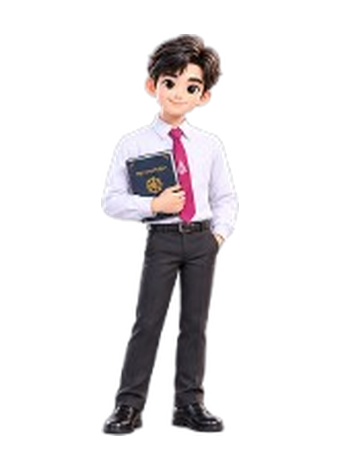
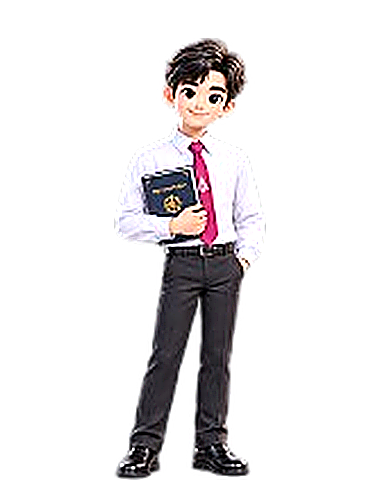
feat: make mascot animation fully automatic continuous playback and enhance image clarity with unsharp masking

Changed region(s): [[0.2941, 0.0609, 0.7059, 0.9739], [0.5882, 0.6391, 0.6176, 0.7609]]

diff --git a/src/app/portal/_components/assist-hero.tsx b/src/app/portal/_components/assist-hero.tsx
@@ -9,10 +9,7 @@ import {
   FileText,
   Sparkles,
   Play,
-  Pause,
   GraduationCap,
-  ChevronLeft,
-  ChevronRight,
 } from "lucide-react";
 
 interface AssistHeroProps {
@@ -21,56 +18,45 @@ interface AssistHeroProps {
 }
 
 const MASCOT_POSES = [
-  { id: 1, titleTh: "ยินดีต้อนรับสู่ระบบ", titleEn: "Welcome to Campus", tag: "Student" },
-  { id: 2, titleTh: "พร้อมเริ่มต้นเรียนรู้ ✌", titleEn: "Ready to Learn ✌", tag: "Energy" },
-  { id: 3, titleTh: "มั่นใจ ปลอดภัย 100%", titleEn: "Confident & Secure", tag: "Trusted" },
-  { id: 4, titleTh: "ค้นคว้าความรู้ 📖", titleEn: "Explore Knowledge 📖", tag: "Academic" },
-  { id: 5, titleTh: "สวัสดีครับ 👋", titleEn: "Hello & Greetings 👋", tag: "Friendly" },
-  { id: 6, titleTh: "แนะนำบริการดิจิทัล 👉", titleEn: "Discover Services 👉", tag: "Guide" },
-  { id: 7, titleTh: "ระบบยอดเยี่ยม 👍", titleEn: "Top Quality 👍", tag: "Quality" },
-  { id: 8, titleTh: "ให้คำปรึกษาตลอด 24 ชม. 🤔", titleEn: "Smart Guidance 🤔", tag: "Advising" },
-  { id: 9, titleTh: "นวัตกรรมดิจิทัล 💻", titleEn: "Digital Learning 💻", tag: "Tech" },
-  { id: 10, titleTh: "สำเร็จไปด้วยกัน 💪", titleEn: "Success Together 💪", tag: "Goal" },
-  { id: 11, titleTh: "มุ่งมั่นสู่อนาคต 🎒", titleEn: "Future Ready 🎒", tag: "Vision" },
-  { id: 12, titleTh: "ก้าวไปข้างหน้า 🚶", titleEn: "Step Forward 🚶", tag: "Progress" },
-  { id: 13, titleTh: "สวัสดีครับ ยินดีต้อนรับ 🙏", titleEn: "Sawasdee - Thai Greeting 🙏", tag: "Respect" },
-  { id: 14, titleTh: "ยินดีต้อนรับทุกคนครับ 🤗", titleEn: "Open Welcome to All 🤗", tag: "Community" },
+  { id: 1, titleTh: "ยินดีต้อนรับสู่ระบบ", titleEn: "Welcome to Campus" },
+  { id: 2, titleTh: "พร้อมเริ่มต้นเรียนรู้ ✌", titleEn: "Ready to Learn ✌" },
+  { id: 3, titleTh: "มั่นใจ ปลอดภัย 100%", titleEn: "Confident & Secure" },
+  { id: 4, titleTh: "ค้นคว้าความรู้ 📖", titleEn: "Explore Knowledge 📖" },
+  { id: 5, titleTh: "สวัสดีครับ 👋", titleEn: "Hello & Greetings 👋" },
+  { id: 6, titleTh: "แนะนำบริการดิจิทัล 👉", titleEn: "Discover Services 👉" },
+  { id: 7, titleTh: "ระบบยอดเยี่ยม 👍", titleEn: "Top Quality 👍" },
+  { id: 8, titleTh: "ให้คำปรึกษาตลอด 24 ชม. 🤔", titleEn: "Smart Guidance 🤔" },
+  { id: 9, titleTh: "นวัตกรรมดิจิทัล 💻", titleEn: "Digital Learning 💻" },
+  { id: 10, titleTh: "สำเร็จไปด้วยกัน 💪", titleEn: "Success Together 💪" },
+  { id: 11, titleTh: "มุ่งมั่นสู่อนาคต 🎒", titleEn: "Future Ready 🎒" },
+  { id: 12, titleTh: "ก้าวไปข้างหน้า 🚶", titleEn: "Step Forward 🚶" },
+  { id: 13, titleTh: "สวัสดีครับ ยินดีต้อนรับ 🙏", titleEn: "Sawasdee - Thai Greeting 🙏" },
+  { id: 14, titleTh: "ยินดีต้อนรับทุกคนครับ 🤗", titleEn: "Open Welcome to All 🤗" },
 ];
 
 export function AssistHero({ orgName, locale }: AssistHeroProps) {
   const isTh = locale === "th";
   const [currentPoseIdx, setCurrentPoseIdx] = useState(0);
-  const [isPlaying, setIsPlaying] = useState(true);
-  const [isHovered, setIsHovered] = useState(false);
 
-  // Preload all 14 pose images on mount for zero-flicker transitions
+  // Preload all 14 sharp pose images on mount for instant zero-flicker transitions
   useEffect(() => {
     if (typeof window !== "undefined") {
       MASCOT_POSES.forEach((p) => {
         const img = new Image();
-        img.src = `/images/mascot/pose-${p.id}.png`;
+        img.src = `/images/mascot/pose-${p.id}.png?v=2`;
       });
     }
   }, []);
 
-  // Sequential animation cycle (switch pose every 2.4s)
+  // Continuous automatic animation cycle through all 14 poses sequentially
   useEffect(() => {
-    if (!isPlaying || isHovered) return;
     const timer = setInterval(() => {
       setCurrentPoseIdx((prev) => (prev + 1) % MASCOT_POSES.length);
-    }, 2400);
+    }, 2000);
     return () => clearInterval(timer);
-  }, [isPlaying, isHovered]);
+  }, []);
 
   const activePose = MASCOT_POSES[currentPoseIdx];
-
-  const handleNext = () => {
-    setCurrentPoseIdx((prev) => (prev + 1) % MASCOT_POSES.length);
-  };
-
-  const handlePrev = () => {
-    setCurrentPoseIdx((prev) => (prev - 1 + MASCOT_POSES.length) % MASCOT_POSES.length);
-  };
 
   return (
     <section className="relative overflow-hidden w-full px-4 sm:px-8 lg:px-16 pt-12 pb-16 lg:py-20 flex items-center">
@@ -192,12 +178,8 @@ export function AssistHero({ orgName, locale }: AssistHeroProps) {
           </div>
         </div>
 
-        {/* RIGHT COLUMN: 3D Animated Mascot Character (Cycling through all 14 poses) */}
-        <div
-          className="lg:col-span-7 relative flex items-center justify-center py-6 lg:py-0 select-none"
-          onMouseEnter={() => setIsHovered(true)}
-          onMouseLeave={() => setIsHovered(false)}
-        >
+        {/* RIGHT COLUMN: 3D Animated Mascot Character (Continuous Automatic 14-Pose Cycling) */}
+        <div className="lg:col-span-7 relative flex items-center justify-center py-6 lg:py-0 select-none">
           {/* Decorative Orbital Concentric Rings */}
           <div className="absolute inset-0 flex items-center justify-center pointer-events-none -z-10">
             <div
@@ -212,7 +194,7 @@ export function AssistHero({ orgName, locale }: AssistHeroProps) {
 
           {/* Centered Character Stage Box */}
           <div
-            className="relative w-full max-w-[460px] h-[520px] rounded-[32px] overflow-hidden border border-white/60 dark:border-border/60 backdrop-blur-xl flex flex-col items-center justify-between p-6 shadow-2xl transition-all duration-300 hover:shadow-primary/10"
+            className="relative w-full max-w-[460px] h-[530px] rounded-[32px] overflow-hidden border border-white/60 dark:border-border/60 backdrop-blur-xl flex flex-col items-center justify-between p-6 shadow-2xl transition-all duration-300"
             style={{
               background:
                 "radial-gradient(ellipse at 50% 30%, color-mix(in srgb, var(--brand-light, #38bdf8) 12%, var(--glass-strong)), color-mix(in srgb, var(--brand) 6%, var(--glass)))",
@@ -220,11 +202,10 @@ export function AssistHero({ orgName, locale }: AssistHeroProps) {
                 "0 25px 50px -12px color-mix(in srgb, var(--brand) 25%, transparent), inset 0 1px 2px rgba(255,255,255,0.8)",
             }}
           >
-            {/* Top Stage Header: Current Pose Bubble & Control Button */}
-            <div className="w-full flex items-center justify-between z-10">
-              {/* Dynamic Action Pill */}
+            {/* Top Stage Header: Current Pose Bubble (Clean without buttons) */}
+            <div className="w-full flex items-center justify-center z-10">
               <div
-                className="inline-flex items-center gap-2 px-3.5 py-1.5 rounded-full backdrop-blur-md border shadow-xs transition-all duration-300"
+                className="inline-flex items-center gap-2 px-4 py-1.5 rounded-full backdrop-blur-md border shadow-xs transition-all duration-300"
                 style={{
                   background: "color-mix(in srgb, var(--glass-strong) 85%, transparent)",
                   borderColor: "color-mix(in srgb, var(--brand) 30%, var(--glass-border))",
@@ -234,46 +215,17 @@ export function AssistHero({ orgName, locale }: AssistHeroProps) {
                 <span className="text-xs font-semibold text-foreground tracking-tight">
                   {isTh ? activePose.titleTh : activePose.titleEn}
                 </span>
-              </div>
-
-              {/* Controls: Prev, Play/Pause, Next */}
-              <div className="flex items-center gap-1 bg-background/60 backdrop-blur-md border border-border/50 rounded-full px-2 py-1 shadow-xs">
-                <button
-                  type="button"
-                  onClick={handlePrev}
-                  title="Previous Pose"
-                  className="w-6 h-6 rounded-full flex items-center justify-center text-muted-foreground hover:text-foreground hover:bg-muted/80 transition-colors"
-                >
-                  <ChevronLeft className="h-3.5 w-3.5" />
-                </button>
-                <button
-                  type="button"
-                  onClick={() => setIsPlaying(!isPlaying)}
-                  title={isPlaying ? "Pause Animation" : "Play Animation"}
-                  className="w-6 h-6 rounded-full flex items-center justify-center text-primary hover:bg-primary/10 transition-colors"
-                >
-                  {isPlaying ? <Pause className="h-3 w-3" /> : <Play className="h-3 w-3 fill-primary" />}
-                </button>
-                <button
-                  type="button"
-                  onClick={handleNext}
-                  title="Next Pose"
-                  className="w-6 h-6 rounded-full flex items-center justify-center text-muted-foreground hover:text-foreground hover:bg-muted/80 transition-colors"
-                >
-                  <ChevronRight className="h-3.5 w-3.5" />
-                </button>
+                <span className="text-[10px] px-1.5 py-0.5 rounded-full bg-primary/10 text-primary font-bold">
+                  {currentPoseIdx + 1}/14
+                </span>
               </div>
             </div>
 
-            {/* Central Mascot Figure with Floating Animation & Clickable Pose Switch */}
-            <div
-              className="relative flex-1 w-full flex items-center justify-center cursor-pointer group my-1"
-              onClick={handleNext}
-              title="Click to change pose"
-            >
+            {/* Central Mascot Figure with Floating Animation & Seamless Pose Switch */}
+            <div className="relative flex-1 w-full flex items-center justify-center my-1">
               {/* Ground Shadow & Light Pedestal */}
               <div
-                className="absolute bottom-2 w-48 h-8 rounded-full blur-md opacity-40 dark:opacity-60 transition-transform group-hover:scale-110"
+                className="absolute bottom-2 w-48 h-8 rounded-full blur-md opacity-40 dark:opacity-60"
                 style={{
                   background:
                     "radial-gradient(ellipse at center, color-mix(in srgb, var(--brand) 80%, black), transparent 70%)",
@@ -283,26 +235,28 @@ export function AssistHero({ orgName, locale }: AssistHeroProps) {
                 className="absolute bottom-1 w-56 h-3 rounded-full border opacity-50 dark:opacity-40"
                 style={{
                   borderColor: "var(--brand)",
-                  background: "radial-gradient(ellipse at center, color-mix(in srgb, var(--brand) 30%, transparent), transparent)",
+                  background:
+                    "radial-gradient(ellipse at center, color-mix(in srgb, var(--brand) 30%, transparent), transparent)",
                 }}
               />
 
-              {/* Mascot Pose Image with Smooth Crossfade */}
+              {/* Mascot Pose Image with Smooth Crossfade & Ultra-Sharp Rendering */}
               {MASCOT_POSES.map((pose, idx) => {
                 const isCurrent = idx === currentPoseIdx;
                 return (
                   // eslint-disable-next-line @next/next/no-img-element
                   <img
                     key={pose.id}
-                    src={`/images/mascot/pose-${pose.id}.png`}
+                    src={`/images/mascot/pose-${pose.id}.png?v=2`}
                     alt={isTh ? pose.titleTh : pose.titleEn}
-                    className={`absolute inset-0 m-auto max-h-[390px] w-auto object-contain transition-all duration-500 ease-out pointer-events-none drop-shadow-xl ${
+                    className={`absolute inset-0 m-auto max-h-[415px] w-auto object-contain transition-all duration-500 ease-out pointer-events-none ${
                       isCurrent
                         ? "opacity-100 scale-100 translate-y-0"
-                        : "opacity-0 scale-95 translate-y-2"
+                        : "opacity-0 scale-98 translate-y-1.5"
                     }`}
                     style={{
-                      filter: "drop-shadow(0 12px 24px rgba(0,0,0,0.15))",
+                      imageRendering: "crisp-edges",
+                      filter: "drop-shadow(0 10px 20px rgba(0,0,0,0.12))",
                     }}
                   />
                 );
